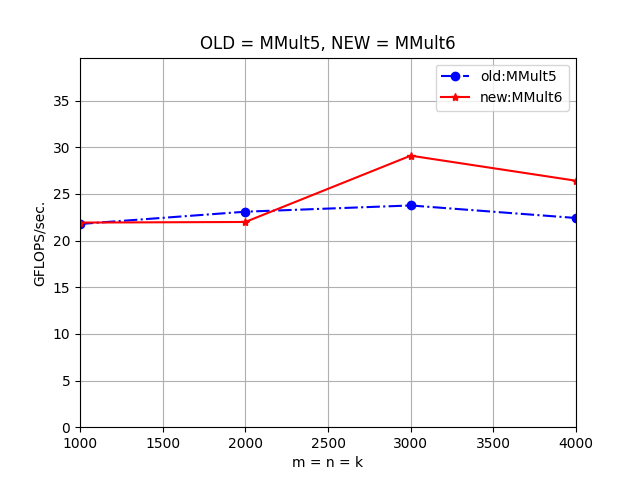
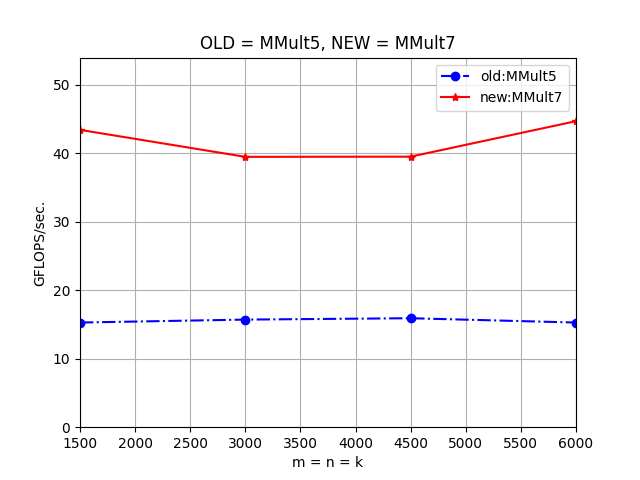
lab 9 finish MMult7.c

diff --git a/lab09/MMult6.c b/lab09/MMult6.c
@@ -8,83 +8,39 @@
 
 #define BLOCK_SIZE 256
 
-inline static void block_dgemm(int m, int n, int k, double *a, int lda, 
-                                      double *b, int ldb,
-                                      double *c, int ldc);
-
 inline static void naive_dgemm(int m, int n, int k, double *a, int lda, 
-                                      double *b, int ldb,
-                                      double *c, int ldc);
+                               double *b, int ldb, double *c, int ldc);
 
 /* Routine for computing C = A * B + C */
 /* (m*n) = (m*k) * (k*n) */
 void MY_MMult(int m, int n, int k, double *a, int lda, 
-                                   double *b, int ldb,
-                                   double *c, int ldc) {
-    block_dgemm(m, n, k, a, lda, b, ldb, c, ldc);
-}
-
-inline static void block_dgemm(int m, int n, int k, double *a, int lda, 
-                        double *b, int ldb,
-                        double *c, int ldc) {
-    int i = 0, j = 0, p = 0;
-    for (i = 0; i <= m - BLOCK_SIZE; i += BLOCK_SIZE) {
-        for (j = 0; j <= n - BLOCK_SIZE; j += BLOCK_SIZE) {
-            for (p = 0; p <= k - BLOCK_SIZE; p += BLOCK_SIZE) {
-                naive_dgemm(BLOCK_SIZE, BLOCK_SIZE, BLOCK_SIZE,
-                            &A(i, p), lda, &B(p, j), ldb, &C(i, j), ldc);
+              double *b, int ldb, double *c, int ldc) {
+    for (int i = 0; i < m; i += BLOCK_SIZE) {
+        int len_i = BLOCK_SIZE < m - i ? BLOCK_SIZE : m - i;
+        for (int j = 0; j < n; j += BLOCK_SIZE) {
+            int len_j = BLOCK_SIZE < n - j ? BLOCK_SIZE : n - j;
+            for (int p = 0; p < k; p += BLOCK_SIZE) {
+                int len_p = BLOCK_SIZE < k - p ? BLOCK_SIZE : k - p;
+                naive_dgemm(len_i, len_j, len_p, &A(i, p), lda, &B(p, j), ldb, &C(i, j), ldc);
             }
-            naive_dgemm(BLOCK_SIZE, BLOCK_SIZE, k - p,
-                        &A(i, p), lda, &B(p, j), ldb, &C(i, j), ldc);
         }
-    }
-    for (j = 0; j <= n - BLOCK_SIZE; j += BLOCK_SIZE) {
-        for (p = 0; p <= k - BLOCK_SIZE; p += BLOCK_SIZE) {
-            naive_dgemm(m - i, BLOCK_SIZE, BLOCK_SIZE,
-                        &A(i, p), lda, &B(p, j), ldb, &C(i, j), ldc);
-        }
-        naive_dgemm(m - i, BLOCK_SIZE, k - p,
-                    &A(i, p), lda, &B(p, j), ldb, &C(i, j), ldc);
-    }
-    for (i = 0; i <= m - BLOCK_SIZE; i += BLOCK_SIZE) {
-        for (p = 0; p <= k - BLOCK_SIZE; p += BLOCK_SIZE) {
-            naive_dgemm(BLOCK_SIZE, n - j, BLOCK_SIZE,
-                        &A(i, p), lda, &B(p, j), ldb, &C(i, j), ldc);
-        }
-        naive_dgemm(BLOCK_SIZE, n - j, k - p,
-                    &A(i, p), lda, &B(p, j), ldb, &C(i, j), ldc);
-    }
-    {
-        for (p = 0; p <= k - BLOCK_SIZE; p += BLOCK_SIZE) {
-            naive_dgemm(m - i, n - j, BLOCK_SIZE,
-                        &A(i, p), lda, &B(p, j), ldb, &C(i, j), ldc);
-        }
-        naive_dgemm(m - i, n - j, k - p,
-                    &A(i, p), lda, &B(p, j), ldb, &C(i, j), ldc);
     }
 }
 
 inline static void naive_dgemm(int m, int n, int k, double *a, int lda, 
-                               double *b, int ldb,
-                               double *c, int ldc) {
+                               double *b, int ldb, double *c, int ldc) {
     int j;
-    for (j = 0; j <= n - 8; j += 8) {
+    for (j = 0; j <= n - 4; j += 4) {
         for (int p = 0; p < k; p++) {
             register
             double b_pj  = B(p, j),     b_pj1 = B(p, j + 1),
-                   b_pj2 = B(p, j + 2), b_pj3 = B(p, j + 3),
-                   b_pj4 = B(p, j + 4), b_pj5 = B(p, j + 5),
-                   b_pj6 = B(p, j + 6), b_pj7 = B(p, j + 7);
+                   b_pj2 = B(p, j + 2), b_pj3 = B(p, j + 3);
             for (int i = 0; i < m; i++) {
                 register double a_ip = A(i, p);
                 C(i, j)     += a_ip * b_pj;
                 C(i, j + 1) += a_ip * b_pj1;
                 C(i, j + 2) += a_ip * b_pj2;
                 C(i, j + 3) += a_ip * b_pj3;
-                C(i, j + 4) += a_ip * b_pj4;
-                C(i, j + 5) += a_ip * b_pj5;
-                C(i, j + 6) += a_ip * b_pj6;
-                C(i, j + 7) += a_ip * b_pj7;
             }
         }
     }

diff --git a/lab09/MMult7.c b/lab09/MMult7.c
@@ -1,0 +1,81 @@
+/* OpenMP implementation of multi-threaded block matrix multiplication */
+/* Split the matrix into fixed size blocks */
+#include "dgemm.h"
+
+#define A(i,j) a[ (j)*lda + (i) ]
+#define B(i,j) b[ (j)*ldb + (i) ]
+#define C(i,j) c[ (j)*ldc + (i) ]
+
+#define BLOCK_SIZE 256
+
+inline static void naive_dgemm(int m, int n, int k, double *a, int lda, 
+                               double *b, int ldb, double *c, int ldc);
+
+/* Routine for computing C = A * B + C */
+/* (m*n) = (m*k) * (k*n) */
+void MY_MMult(int m, int n, int k, double *a, int lda, 
+              double *b, int ldb, double *c, int ldc) {
+    for (int i = 0; i < m; i += BLOCK_SIZE) {
+        int len_i = BLOCK_SIZE < m - i ? BLOCK_SIZE : m - i;
+        for (int j = 0; j < n; j += BLOCK_SIZE) {
+            int len_j = BLOCK_SIZE < n - j ? BLOCK_SIZE : n - j;
+            for (int p = 0; p < k; p += BLOCK_SIZE) {
+                int len_p = BLOCK_SIZE < k - p ? BLOCK_SIZE : k - p;
+                naive_dgemm(len_i, len_j, len_p, &A(i, p), lda, &B(p, j), ldb, &C(i, j), ldc);
+            }
+        }
+    }
+}
+
+inline static void naive_dgemm(int m, int n, int k, double *a, int lda, 
+                               double *b, int ldb, double *c, int ldc) {
+    int j;
+    for (j = 0; j <= n - 4; j += 4) {
+        int i;
+        for (i = 0; i <= m - 2; i += 2) {
+            register
+            double c_i0j0 = C(i, j),         c_i0j1 = C(i, j + 1),
+                   c_i0j2 = C(i, j + 2),     c_i0j3 = C(i, j + 3),
+                   c_i1j0 = C(i + 1, j),     c_i1j1 = C(i + 1, j + 1),
+                   c_i1j2 = C(i + 1, j + 2), c_i1j3 = C(i + 1, j + 3);
+            for (int p = 0; p < k; p++) {
+                register
+                double a_i0p0 = A(i, p), a_i1p0 = A(i + 1, p);
+                c_i0j0 += a_i0p0 * B(p, j);
+                c_i0j1 += a_i0p0 * B(p, j + 1);
+                c_i0j2 += a_i0p0 * B(p, j + 2);
+                c_i0j3 += a_i0p0 * B(p, j + 3);
+                c_i1j0 += a_i1p0 * B(p, j);
+                c_i1j1 += a_i1p0 * B(p, j + 1);
+                c_i1j2 += a_i1p0 * B(p, j + 2);
+                c_i1j3 += a_i1p0 * B(p, j + 3);
+            }
+            C(i, j)         = c_i0j0, C(i, j + 1)     = c_i0j1,
+            C(i, j + 2)     = c_i0j2, C(i, j + 3)     = c_i0j3,
+            C(i + 1, j)     = c_i1j0, C(i + 1, j + 1) = c_i1j1,
+            C(i + 1, j + 2) = c_i1j2, C(i + 1, j + 3) = c_i1j3;
+        }
+        for (; i < m; i++) {
+            register
+            double c_i0j0 = C(i, j),     c_i0j1 = C(i, j + 1),
+                   c_i0j2 = C(i, j + 2), c_i0j3 = C(i, j + 3);
+            for (int p = 0; p < k; p++) {
+                c_i0j0 += A(i, p) * B(p, j);
+                c_i0j1 += A(i, p) * B(p, j + 1);
+                c_i0j2 += A(i, p) * B(p, j + 2);
+                c_i0j3 += A(i, p) * B(p, j + 3);
+            }
+            C(i, j)     = c_i0j0; C(i, j + 1) = c_i0j1;
+            C(i, j + 2) = c_i0j2; C(i, j + 3) = c_i0j3;
+        }
+    }
+    for (; j < n; j++) {
+        for (int i = 0; i < m; i++) {
+            register double c_ij = C(i, j);
+            for (int p = 0; p < k; p++) {
+                c_ij += A(i, p) * B(p, j);
+            }
+            C(i, j) = c_ij;
+        }
+    }
+}

diff --git a/lab09/MMult8.c b/lab09/MMult8.c
@@ -1,0 +1,81 @@
+/* OpenMP implementation of multi-threaded block matrix multiplication */
+/* Split the matrix into fixed size blocks */
+#include "dgemm.h"
+
+#define A(i,j) a[ (j)*lda + (i) ]
+#define B(i,j) b[ (j)*ldb + (i) ]
+#define C(i,j) c[ (j)*ldc + (i) ]
+
+#define BLOCK_SIZE 256
+
+inline static void naive_dgemm(int m, int n, int k, double *a, int lda, 
+                               double *b, int ldb, double *c, int ldc);
+
+/* Routine for computing C = A * B + C */
+/* (m*n) = (m*k) * (k*n) */
+void MY_MMult(int m, int n, int k, double *a, int lda, 
+              double *b, int ldb, double *c, int ldc) {
+    for (int i = 0; i < m; i += BLOCK_SIZE) {
+        int len_i = BLOCK_SIZE < m - i ? BLOCK_SIZE : m - i;
+        for (int j = 0; j < n; j += BLOCK_SIZE) {
+            int len_j = BLOCK_SIZE < n - j ? BLOCK_SIZE : n - j;
+            for (int p = 0; p < k; p += BLOCK_SIZE) {
+                int len_p = BLOCK_SIZE < k - p ? BLOCK_SIZE : k - p;
+                naive_dgemm(len_i, len_j, len_p, &A(i, p), lda, &B(p, j), ldb, &C(i, j), ldc);
+            }
+        }
+    }
+}
+
+inline static void naive_dgemm(int m, int n, int k, double *a, int lda, 
+                               double *b, int ldb, double *c, int ldc) {
+    int j;
+    for (j = 0; j <= n - 4; j += 4) {
+        int i;
+        for (i = 0; i <= m - 2; i += 2) {
+            register
+            double c_i0j0 = C(i, j),         c_i0j1 = C(i, j + 1),
+                   c_i0j2 = C(i, j + 2),     c_i0j3 = C(i, j + 3),
+                   c_i1j0 = C(i + 1, j),     c_i1j1 = C(i + 1, j + 1),
+                   c_i1j2 = C(i + 1, j + 2), c_i1j3 = C(i + 1, j + 3);
+            for (int p = 0; p < k; p++) {
+                register
+                double a_i0p0 = A(i, p), a_i1p0 = A(i + 1, p);
+                c_i0j0 += a_i0p0 * B(p, j);
+                c_i0j1 += a_i0p0 * B(p, j + 1);
+                c_i0j2 += a_i0p0 * B(p, j + 2);
+                c_i0j3 += a_i0p0 * B(p, j + 3);
+                c_i1j0 += a_i1p0 * B(p, j);
+                c_i1j1 += a_i1p0 * B(p, j + 1);
+                c_i1j2 += a_i1p0 * B(p, j + 2);
+                c_i1j3 += a_i1p0 * B(p, j + 3);
+            }
+            C(i, j)         = c_i0j0, C(i, j + 1)     = c_i0j1,
+            C(i, j + 2)     = c_i0j2, C(i, j + 3)     = c_i0j3,
+            C(i + 1, j)     = c_i1j0, C(i + 1, j + 1) = c_i1j1,
+            C(i + 1, j + 2) = c_i1j2, C(i + 1, j + 3) = c_i1j3;
+        }
+        for (; i < m; i++) {
+            register
+            double c_i0j0 = C(i, j),     c_i0j1 = C(i, j + 1),
+                   c_i0j2 = C(i, j + 2), c_i0j3 = C(i, j + 3);
+            for (int p = 0; p < k; p++) {
+                c_i0j0 += A(i, p) * B(p, j);
+                c_i0j1 += A(i, p) * B(p, j + 1);
+                c_i0j2 += A(i, p) * B(p, j + 2);
+                c_i0j3 += A(i, p) * B(p, j + 3);
+            }
+            C(i, j)     = c_i0j0; C(i, j + 1) = c_i0j1;
+            C(i, j + 2) = c_i0j2; C(i, j + 3) = c_i0j3;
+        }
+    }
+    for (; j < n; j++) {
+        for (int i = 0; i < m; i++) {
+            register double c_ij = C(i, j);
+            for (int p = 0; p < k; p++) {
+                c_ij += A(i, p) * B(p, j);
+            }
+            C(i, j) = c_ij;
+        }
+    }
+}

diff --git a/lab09/utils.c b/lab09/utils.c
@@ -3,7 +3,7 @@
 #include <time.h>
 #include <math.h>
 #include <sys/time.h>
-#include "dgemm.h"
+#include <cblas.h>
 
 #define A(i,j) a[ (j)*lda + (i) ]
 #define B(i,j) b[ (j)*ldb + (i) ]
@@ -32,8 +32,9 @@ double compare_matrices(int m, int n, double *a, int lda, double *b, int ldb) {
     return max_diff;
 }
 
-void REF_MMult(int m, int n, int k, double *a, int lda, double *b, int ldb, double *cref, int ldc) {
-    MY_MMult(m, n, k, a, lda, b, ldb, cref, ldc);
+void REF_MMult(int m, int n, int k, double *a, int lda, double *b, int ldb, double *c, int ldc) {
+    cblas_dgemm(CblasColMajor, CblasNoTrans, CblasNoTrans,
+                m, n, k, 1.0, a, lda, b, ldb, 1.0, c, ldc);
 }
 
 double dclock() {

diff --git a/lab09/PlotAll.py b/lab09/PlotAll.py
@@ -3,11 +3,11 @@ import numpy as np
 
 # Indicate the number of floating point operations that can be executed
 # per clock cycle
-nflops_per_cycle = 1
+nflops_per_cycle = 2
 
 # Indicate the number of processors being used (in case you are using a
 # multicore or SMP)
-nprocessors = 2
+nprocessors = 1
 
 # Indicate the clock speed of the processor.  On a Linux machine this info
 # can be found in the file /proc/cpuinfo

diff --git a/lab09/parameters.h b/lab09/parameters.h
@@ -2,9 +2,9 @@
 In the test driver, there is a loop "for ( p=PFIRST; p<= PLAST; p+= PINC )"
 The below parameters set this range of values that p takes on 
 */   
-#define PFIRST 1000
-#define PLAST  4000
-#define PINC   1000
+#define PFIRST 1500
+#define PLAST  6000
+#define PINC   1500
 
 /* 
 In the test driver, the m, n, and k dimensions are set to the below 
